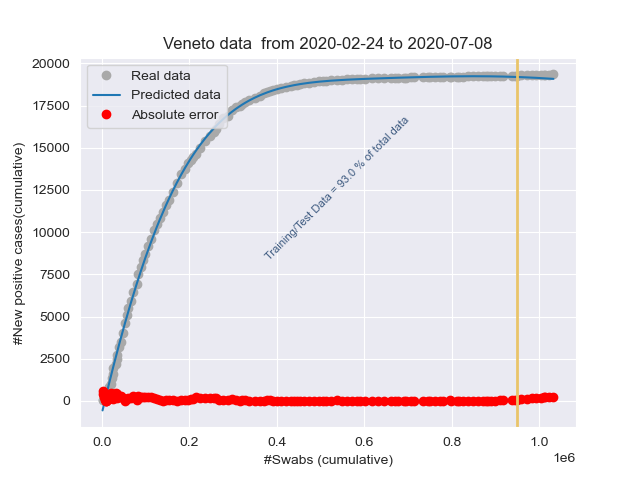
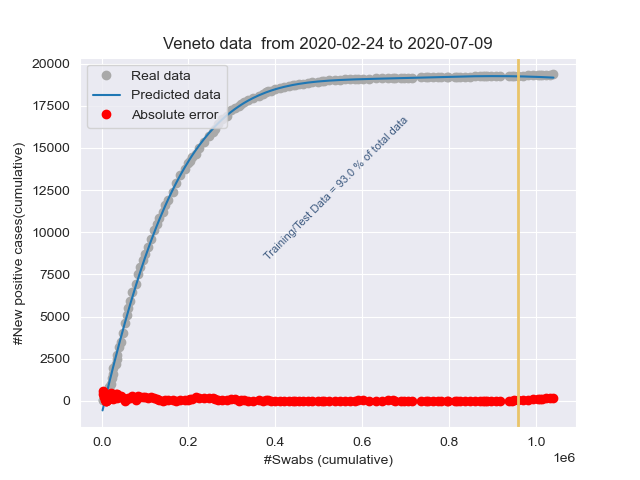
Add files via upload

diff --git a/stat_Friuli Venezia Giulia.html b/stat_Friuli Venezia Giulia.html
@@ -1,1 +1,1 @@
-<!DOCTYPE html><html lang="it"><head><title>Results</title><meta charset="utf-8"><meta name="viewport" content="width=device-width, initial-scale=1"><link rel="stylesheet" href="bootstrap.min.css"><script src="https://ajax.googleapis.com/ajax/libs/jquery/3.4.1/jquery.min.js"></script><script src="https://maxcdn.bootstrapcdn.com/bootstrap/3.4.1/js/bootstrap.min.js"></script></head><body><h3>Day: 2020-07-08</h3><p class="lead my-3">New positive cases: <b>4</b></p><p class="lead my-3">Variation of positive cases: <b>300.0%</b></p><p class="lead my-3">Number of swabs: <b>1827.0</b></p><p class="lead my-3">Variation of swabs: <b>0.9%</b></p><p class="lead my-3">Postive cases/Swabs: <b>0.22 %</b></p><p class="lead my-3">Number of people admitted to Intensive care: <b>0</b></p><p class="lead my-3">Number of recovered people: <b>-6.0</b></p><p class="lead my-3">Number of dead people: <b>0.0</b></p><h3>Total</h3><p class="lead my-3">Population of  Friuli Venezia Giulia: <b>1215220</b> <a href="http://dati.istat.it/Index.aspx?QueryId=18548" target="_blank">ISTAT data</a></p><p class="lead my-3">Total number of positive cases from 2020-02-24 00:00:00 to 2020-07-08: <b> 3331</b></p><p class="lead my-3">Total number of swabs from 2020-02-24 00:00:00 to 2020-07-08: <b> 204580</b></p><p class="lead my-3">TotalSwabs/Population: <b> 16.83%</b></p></body></html>
+<!DOCTYPE html><html lang="it"><head><title>Results</title><meta charset="utf-8"><meta name="viewport" content="width=device-width, initial-scale=1"><link rel="stylesheet" href="bootstrap.min.css"><script src="https://ajax.googleapis.com/ajax/libs/jquery/3.4.1/jquery.min.js"></script><script src="https://maxcdn.bootstrapcdn.com/bootstrap/3.4.1/js/bootstrap.min.js"></script></head><body><h3>Day: 2020-07-09</h3><p class="lead my-3">New positive cases: <b>1</b></p><p class="lead my-3">Variation of positive cases: <b>-75.0%</b></p><p class="lead my-3">Number of swabs: <b>2228.0</b></p><p class="lead my-3">Variation of swabs: <b>1.09%</b></p><p class="lead my-3">Postive cases/Swabs: <b>0.04 %</b></p><p class="lead my-3">Number of people admitted to Intensive care: <b>0</b></p><p class="lead my-3">Number of recovered people: <b>8.0</b></p><p class="lead my-3">Number of dead people: <b>0.0</b></p><h3>Total</h3><p class="lead my-3">Population of  Friuli Venezia Giulia: <b>1215220</b> <a href="http://dati.istat.it/Index.aspx?QueryId=18548" target="_blank">ISTAT data</a></p><p class="lead my-3">Total number of positive cases from 2020-02-24 00:00:00 to 2020-07-09: <b> 3332</b></p><p class="lead my-3">Total number of swabs from 2020-02-24 00:00:00 to 2020-07-09: <b> 206808</b></p><p class="lead my-3">TotalSwabs/Population: <b> 17.02%</b></p></body></html>

diff --git a/stat_Emilia-Romagna.html b/stat_Emilia-Romagna.html
@@ -1,1 +1,1 @@
-<!DOCTYPE html><html lang="it"><head><title>Results</title><meta charset="utf-8"><meta name="viewport" content="width=device-width, initial-scale=1"><link rel="stylesheet" href="bootstrap.min.css"><script src="https://ajax.googleapis.com/ajax/libs/jquery/3.4.1/jquery.min.js"></script><script src="https://maxcdn.bootstrapcdn.com/bootstrap/3.4.1/js/bootstrap.min.js"></script></head><body><h3>Day: 2020-07-08</h3><p class="lead my-3">New positive cases: <b>49</b></p><p class="lead my-3">Variation of positive cases: <b>58.06%</b></p><p class="lead my-3">Number of swabs: <b>4877.0</b></p><p class="lead my-3">Variation of swabs: <b>0.93%</b></p><p class="lead my-3">Postive cases/Swabs: <b>1.0 %</b></p><p class="lead my-3">Number of people admitted to Intensive care: <b>10</b></p><p class="lead my-3">Number of recovered people: <b>38.0</b></p><p class="lead my-3">Number of dead people: <b>0.0</b></p><h3>Total</h3><p class="lead my-3">Population of  Emilia-Romagna: <b>4459477</b> <a href="http://dati.istat.it/Index.aspx?QueryId=18548" target="_blank">ISTAT data</a></p><p class="lead my-3">Total number of positive cases from 2020-02-24 00:00:00 to 2020-07-08: <b> 28759</b></p><p class="lead my-3">Total number of swabs from 2020-02-24 00:00:00 to 2020-07-08: <b> 531089</b></p><p class="lead my-3">TotalSwabs/Population: <b> 11.91%</b></p></body></html>
+<!DOCTYPE html><html lang="it"><head><title>Results</title><meta charset="utf-8"><meta name="viewport" content="width=device-width, initial-scale=1"><link rel="stylesheet" href="bootstrap.min.css"><script src="https://ajax.googleapis.com/ajax/libs/jquery/3.4.1/jquery.min.js"></script><script src="https://maxcdn.bootstrapcdn.com/bootstrap/3.4.1/js/bootstrap.min.js"></script></head><body><h3>Day: 2020-07-09</h3><p class="lead my-3">New positive cases: <b>29</b></p><p class="lead my-3">Variation of positive cases: <b>-40.82%</b></p><p class="lead my-3">Number of swabs: <b>5343.0</b></p><p class="lead my-3">Variation of swabs: <b>1.01%</b></p><p class="lead my-3">Postive cases/Swabs: <b>0.54 %</b></p><p class="lead my-3">Number of people admitted to Intensive care: <b>10</b></p><p class="lead my-3">Number of recovered people: <b>19.0</b></p><p class="lead my-3">Number of dead people: <b>0.0</b></p><h3>Total</h3><p class="lead my-3">Population of  Emilia-Romagna: <b>4459477</b> <a href="http://dati.istat.it/Index.aspx?QueryId=18548" target="_blank">ISTAT data</a></p><p class="lead my-3">Total number of positive cases from 2020-02-24 00:00:00 to 2020-07-09: <b> 28788</b></p><p class="lead my-3">Total number of swabs from 2020-02-24 00:00:00 to 2020-07-09: <b> 536432</b></p><p class="lead my-3">TotalSwabs/Population: <b> 12.03%</b></p></body></html>

diff --git a/stat_Lombardia.html b/stat_Lombardia.html
@@ -1,1 +1,1 @@
-<!DOCTYPE html><html lang="it"><head><title>Results</title><meta charset="utf-8"><meta name="viewport" content="width=device-width, initial-scale=1"><link rel="stylesheet" href="bootstrap.min.css"><script src="https://ajax.googleapis.com/ajax/libs/jquery/3.4.1/jquery.min.js"></script><script src="https://maxcdn.bootstrapcdn.com/bootstrap/3.4.1/js/bootstrap.min.js"></script></head><body><h3>Day: 2020-07-08</h3><p class="lead my-3">New positive cases: <b>71</b></p><p class="lead my-3">Variation of positive cases: <b>33.96%</b></p><p class="lead my-3">Number of swabs: <b>10675.0</b></p><p class="lead my-3">Variation of swabs: <b>0.98%</b></p><p class="lead my-3">Postive cases/Swabs: <b>0.67 %</b></p><p class="lead my-3">Number of people admitted to Intensive care: <b>34</b></p><p class="lead my-3">Number of recovered people: <b>673.0</b></p><p class="lead my-3">Number of dead people: <b>12.0</b></p><h3>Total</h3><p class="lead my-3">Population of  Lombardia: <b>10060574</b> <a href="http://dati.istat.it/Index.aspx?QueryId=18548" target="_blank">ISTAT data</a></p><p class="lead my-3">Total number of positive cases from 2020-02-24 00:00:00 to 2020-07-08: <b> 94645</b></p><p class="lead my-3">Total number of swabs from 2020-02-24 00:00:00 to 2020-07-08: <b> 1103015</b></p><p class="lead my-3">TotalSwabs/Population: <b> 10.96%</b></p></body></html>
+<!DOCTYPE html><html lang="it"><head><title>Results</title><meta charset="utf-8"><meta name="viewport" content="width=device-width, initial-scale=1"><link rel="stylesheet" href="bootstrap.min.css"><script src="https://ajax.googleapis.com/ajax/libs/jquery/3.4.1/jquery.min.js"></script><script src="https://maxcdn.bootstrapcdn.com/bootstrap/3.4.1/js/bootstrap.min.js"></script></head><body><h3>Day: 2020-07-09</h3><p class="lead my-3">New positive cases: <b>119</b></p><p class="lead my-3">Variation of positive cases: <b>67.61%</b></p><p class="lead my-3">Number of swabs: <b>11812.0</b></p><p class="lead my-3">Variation of swabs: <b>1.07%</b></p><p class="lead my-3">Postive cases/Swabs: <b>1.01 %</b></p><p class="lead my-3">Number of people admitted to Intensive care: <b>31</b></p><p class="lead my-3">Number of recovered people: <b>217.0</b></p><p class="lead my-3">Number of dead people: <b>5.0</b></p><h3>Total</h3><p class="lead my-3">Population of  Lombardia: <b>10060574</b> <a href="http://dati.istat.it/Index.aspx?QueryId=18548" target="_blank">ISTAT data</a></p><p class="lead my-3">Total number of positive cases from 2020-02-24 00:00:00 to 2020-07-09: <b> 94764</b></p><p class="lead my-3">Total number of swabs from 2020-02-24 00:00:00 to 2020-07-09: <b> 1114827</b></p><p class="lead my-3">TotalSwabs/Population: <b> 11.08%</b></p></body></html>

diff --git a/stat_Italy.html b/stat_Italy.html
@@ -1,1 +1,1 @@
-<!DOCTYPE html><html lang="it"><head><title>Results</title><meta charset="utf-8"><meta name="viewport" content="width=device-width, initial-scale=1"><link rel="stylesheet" href="bootstrap.min.css"><script src="https://ajax.googleapis.com/ajax/libs/jquery/3.4.1/jquery.min.js"></script><script src="https://maxcdn.bootstrapcdn.com/bootstrap/3.4.1/js/bootstrap.min.js"></script></head><body><h3>Day: 2020-07-08</h3><p class="lead my-3">New positive cases: <b>193</b></p><p class="lead my-3">Variation of positive cases: <b>39.86%</b></p><p class="lead my-3">Number of swabs: <b>50443.0</b></p><p class="lead my-3">Variation of swabs: <b>0.88%</b></p><p class="lead my-3">Postive cases/Swabs: <b>0.38 %</b></p><p class="lead my-3">Number of people admitted to Intensive care: <b>71</b></p><p class="lead my-3">Number of recovered people: <b>825.0</b></p><p class="lead my-3">Number of dead people: <b>15.0</b></p><h3>Total</h3><p class="lead my-3">Population of  Italy: <b>60359546</b> <a href="http://dati.istat.it/Index.aspx?QueryId=18548" target="_blank">ISTAT data</a></p><p class="lead my-3">Total number of positive cases from 2020-02-24 00:00:00 to 2020-07-08: <b> 242172</b></p><p class="lead my-3">Total number of swabs from 2020-02-24 00:00:00 to 2020-07-08: <b> 5754116</b></p><p class="lead my-3">TotalSwabs/Population: <b> 9.53%</b></p></body></html>
+<!DOCTYPE html><html lang="it"><head><title>Results</title><meta charset="utf-8"><meta name="viewport" content="width=device-width, initial-scale=1"><link rel="stylesheet" href="bootstrap.min.css"><script src="https://ajax.googleapis.com/ajax/libs/jquery/3.4.1/jquery.min.js"></script><script src="https://maxcdn.bootstrapcdn.com/bootstrap/3.4.1/js/bootstrap.min.js"></script></head><body><h3>Day: 2020-07-09</h3><p class="lead my-3">New positive cases: <b>229</b></p><p class="lead my-3">Variation of positive cases: <b>18.65%</b></p><p class="lead my-3">Number of swabs: <b>52552.0</b></p><p class="lead my-3">Variation of swabs: <b>0.91%</b></p><p class="lead my-3">Postive cases/Swabs: <b>0.44 %</b></p><p class="lead my-3">Number of people admitted to Intensive care: <b>69</b></p><p class="lead my-3">Number of recovered people: <b>338.0</b></p><p class="lead my-3">Number of dead people: <b>12.0</b></p><h3>Total</h3><p class="lead my-3">Population of  Italy: <b>60359546</b> <a href="http://dati.istat.it/Index.aspx?QueryId=18548" target="_blank">ISTAT data</a></p><p class="lead my-3">Total number of positive cases from 2020-02-24 00:00:00 to 2020-07-09: <b> 242401</b></p><p class="lead my-3">Total number of swabs from 2020-02-24 00:00:00 to 2020-07-09: <b> 5806668</b></p><p class="lead my-3">TotalSwabs/Population: <b> 9.62%</b></p></body></html>

diff --git a/stat_Piemonte.html b/stat_Piemonte.html
@@ -1,1 +1,1 @@
-<!DOCTYPE html><html lang="it"><head><title>Results</title><meta charset="utf-8"><meta name="viewport" content="width=device-width, initial-scale=1"><link rel="stylesheet" href="bootstrap.min.css"><script src="https://ajax.googleapis.com/ajax/libs/jquery/3.4.1/jquery.min.js"></script><script src="https://maxcdn.bootstrapcdn.com/bootstrap/3.4.1/js/bootstrap.min.js"></script></head><body><h3>Day: 2020-07-08</h3><p class="lead my-3">New positive cases: <b>25</b></p><p class="lead my-3">Variation of positive cases: <b>400.0%</b></p><p class="lead my-3">Number of swabs: <b>3415.0</b></p><p class="lead my-3">Variation of swabs: <b>0.79%</b></p><p class="lead my-3">Postive cases/Swabs: <b>0.73 %</b></p><p class="lead my-3">Number of people admitted to Intensive care: <b>8</b></p><p class="lead my-3">Number of recovered people: <b>58.0</b></p><p class="lead my-3">Number of dead people: <b>0.0</b></p><h3>Total</h3><p class="lead my-3">Population of  Piemonte: <b>4356406</b> <a href="http://dati.istat.it/Index.aspx?QueryId=18548" target="_blank">ISTAT data</a></p><p class="lead my-3">Total number of positive cases from 2020-02-24 00:00:00 to 2020-07-08: <b> 31459</b></p><p class="lead my-3">Total number of swabs from 2020-02-24 00:00:00 to 2020-07-08: <b> 438250</b></p><p class="lead my-3">TotalSwabs/Population: <b> 10.06%</b></p></body></html>
+<!DOCTYPE html><html lang="it"><head><title>Results</title><meta charset="utf-8"><meta name="viewport" content="width=device-width, initial-scale=1"><link rel="stylesheet" href="bootstrap.min.css"><script src="https://ajax.googleapis.com/ajax/libs/jquery/3.4.1/jquery.min.js"></script><script src="https://maxcdn.bootstrapcdn.com/bootstrap/3.4.1/js/bootstrap.min.js"></script></head><body><h3>Day: 2020-07-09</h3><p class="lead my-3">New positive cases: <b>16</b></p><p class="lead my-3">Variation of positive cases: <b>-36.0%</b></p><p class="lead my-3">Number of swabs: <b>3427.0</b></p><p class="lead my-3">Variation of swabs: <b>0.78%</b></p><p class="lead my-3">Postive cases/Swabs: <b>0.47 %</b></p><p class="lead my-3">Number of people admitted to Intensive care: <b>10</b></p><p class="lead my-3">Number of recovered people: <b>31.0</b></p><p class="lead my-3">Number of dead people: <b>1.0</b></p><h3>Total</h3><p class="lead my-3">Population of  Piemonte: <b>4356406</b> <a href="http://dati.istat.it/Index.aspx?QueryId=18548" target="_blank">ISTAT data</a></p><p class="lead my-3">Total number of positive cases from 2020-02-24 00:00:00 to 2020-07-09: <b> 31475</b></p><p class="lead my-3">Total number of swabs from 2020-02-24 00:00:00 to 2020-07-09: <b> 441677</b></p><p class="lead my-3">TotalSwabs/Population: <b> 10.14%</b></p></body></html>

diff --git a/stat_Liguria.html b/stat_Liguria.html
@@ -1,1 +1,1 @@
-<!DOCTYPE html><html lang="it"><head><title>Results</title><meta charset="utf-8"><meta name="viewport" content="width=device-width, initial-scale=1"><link rel="stylesheet" href="bootstrap.min.css"><script src="https://ajax.googleapis.com/ajax/libs/jquery/3.4.1/jquery.min.js"></script><script src="https://maxcdn.bootstrapcdn.com/bootstrap/3.4.1/js/bootstrap.min.js"></script></head><body><h3>Day: 2020-07-08</h3><p class="lead my-3">New positive cases: <b>3</b></p><p class="lead my-3">Variation of positive cases: <b>50.0%</b></p><p class="lead my-3">Number of swabs: <b>1328.0</b></p><p class="lead my-3">Variation of swabs: <b>0.85%</b></p><p class="lead my-3">Postive cases/Swabs: <b>0.23 %</b></p><p class="lead my-3">Number of people admitted to Intensive care: <b>1</b></p><p class="lead my-3">Number of recovered people: <b>1.0</b></p><p class="lead my-3">Number of dead people: <b>0.0</b></p><h3>Total</h3><p class="lead my-3">Population of  Liguria: <b>1550640</b> <a href="http://dati.istat.it/Index.aspx?QueryId=18548" target="_blank">ISTAT data</a></p><p class="lead my-3">Total number of positive cases from 2020-02-24 00:00:00 to 2020-07-08: <b> 10006</b></p><p class="lead my-3">Total number of swabs from 2020-02-24 00:00:00 to 2020-07-08: <b> 157429</b></p><p class="lead my-3">TotalSwabs/Population: <b> 10.15%</b></p></body></html>
+<!DOCTYPE html><html lang="it"><head><title>Results</title><meta charset="utf-8"><meta name="viewport" content="width=device-width, initial-scale=1"><link rel="stylesheet" href="bootstrap.min.css"><script src="https://ajax.googleapis.com/ajax/libs/jquery/3.4.1/jquery.min.js"></script><script src="https://maxcdn.bootstrapcdn.com/bootstrap/3.4.1/js/bootstrap.min.js"></script></head><body><h3>Day: 2020-07-09</h3><p class="lead my-3">New positive cases: <b>4</b></p><p class="lead my-3">Variation of positive cases: <b>33.33%</b></p><p class="lead my-3">Number of swabs: <b>1472.0</b></p><p class="lead my-3">Variation of swabs: <b>0.94%</b></p><p class="lead my-3">Postive cases/Swabs: <b>0.27 %</b></p><p class="lead my-3">Number of people admitted to Intensive care: <b>1</b></p><p class="lead my-3">Number of recovered people: <b>13.0</b></p><p class="lead my-3">Number of dead people: <b>0.0</b></p><h3>Total</h3><p class="lead my-3">Population of  Liguria: <b>1550640</b> <a href="http://dati.istat.it/Index.aspx?QueryId=18548" target="_blank">ISTAT data</a></p><p class="lead my-3">Total number of positive cases from 2020-02-24 00:00:00 to 2020-07-09: <b> 10010</b></p><p class="lead my-3">Total number of swabs from 2020-02-24 00:00:00 to 2020-07-09: <b> 158901</b></p><p class="lead my-3">TotalSwabs/Population: <b> 10.25%</b></p></body></html>

diff --git a/stat_P.A. Bolzano.html b/stat_P.A. Bolzano.html
@@ -1,1 +1,1 @@
-<!DOCTYPE html><html lang="it"><head><title>Results</title><meta charset="utf-8"><meta name="viewport" content="width=device-width, initial-scale=1"><link rel="stylesheet" href="bootstrap.min.css"><script src="https://ajax.googleapis.com/ajax/libs/jquery/3.4.1/jquery.min.js"></script><script src="https://maxcdn.bootstrapcdn.com/bootstrap/3.4.1/js/bootstrap.min.js"></script></head><body><h3>Day: 2020-07-08</h3><p class="lead my-3">New positive cases: <b>2</b></p><p class="lead my-3">Variation of positive cases: <b>100.0%</b></p><p class="lead my-3">Number of swabs: <b>688.0</b></p><p class="lead my-3">Variation of swabs: <b>0.78%</b></p><p class="lead my-3">Postive cases/Swabs: <b>0.29 %</b></p><p class="lead my-3">Number of people admitted to Intensive care: <b>0</b></p><p class="lead my-3">Number of recovered people: <b>2.0</b></p><p class="lead my-3">Number of dead people: <b>0.0</b></p><h3>Total</h3><p class="lead my-3">Population of  P.A. Bolzano: <b>531178</b> <a href="http://dati.istat.it/Index.aspx?QueryId=18548" target="_blank">ISTAT data</a></p><p class="lead my-3">Total number of positive cases from 2020-02-24 00:00:00 to 2020-07-08: <b> 2649</b></p><p class="lead my-3">Total number of swabs from 2020-02-24 00:00:00 to 2020-07-08: <b> 88462</b></p><p class="lead my-3">TotalSwabs/Population: <b> 16.65%</b></p></body></html>
+<!DOCTYPE html><html lang="it"><head><title>Results</title><meta charset="utf-8"><meta name="viewport" content="width=device-width, initial-scale=1"><link rel="stylesheet" href="bootstrap.min.css"><script src="https://ajax.googleapis.com/ajax/libs/jquery/3.4.1/jquery.min.js"></script><script src="https://maxcdn.bootstrapcdn.com/bootstrap/3.4.1/js/bootstrap.min.js"></script></head><body><h3>Day: 2020-07-09</h3><p class="lead my-3">New positive cases: <b>3</b></p><p class="lead my-3">Variation of positive cases: <b>50.0%</b></p><p class="lead my-3">Number of swabs: <b>615.0</b></p><p class="lead my-3">Variation of swabs: <b>0.7%</b></p><p class="lead my-3">Postive cases/Swabs: <b>0.49 %</b></p><p class="lead my-3">Number of people admitted to Intensive care: <b>0</b></p><p class="lead my-3">Number of recovered people: <b>2.0</b></p><p class="lead my-3">Number of dead people: <b>0.0</b></p><h3>Total</h3><p class="lead my-3">Population of  P.A. Bolzano: <b>531178</b> <a href="http://dati.istat.it/Index.aspx?QueryId=18548" target="_blank">ISTAT data</a></p><p class="lead my-3">Total number of positive cases from 2020-02-24 00:00:00 to 2020-07-09: <b> 2652</b></p><p class="lead my-3">Total number of swabs from 2020-02-24 00:00:00 to 2020-07-09: <b> 89077</b></p><p class="lead my-3">TotalSwabs/Population: <b> 16.77%</b></p></body></html>

diff --git a/stat_P.A. Trento.html b/stat_P.A. Trento.html
@@ -1,1 +1,1 @@
-<!DOCTYPE html><html lang="it"><head><title>Results</title><meta charset="utf-8"><meta name="viewport" content="width=device-width, initial-scale=1"><link rel="stylesheet" href="bootstrap.min.css"><script src="https://ajax.googleapis.com/ajax/libs/jquery/3.4.1/jquery.min.js"></script><script src="https://maxcdn.bootstrapcdn.com/bootstrap/3.4.1/js/bootstrap.min.js"></script></head><body><h3>Day: 2020-07-08</h3><p class="lead my-3">New positive cases: <b>0</b></p><p class="lead my-3">Variation of positive cases: <b>-100.0%</b></p><p class="lead my-3">Number of swabs: <b>583.0</b></p><p class="lead my-3">Variation of swabs: <b>0.45%</b></p><p class="lead my-3">Postive cases/Swabs: <b>0.0 %</b></p><p class="lead my-3">Number of people admitted to Intensive care: <b>0</b></p><p class="lead my-3">Number of recovered people: <b>3.0</b></p><p class="lead my-3">Number of dead people: <b>0.0</b></p><h3>Total</h3><p class="lead my-3">Population of  P.A. Trento: <b>541098</b> <a href="http://dati.istat.it/Index.aspx?QueryId=18548" target="_blank">ISTAT data</a></p><p class="lead my-3">Total number of positive cases from 2020-02-24 00:00:00 to 2020-07-08: <b> 4489</b></p><p class="lead my-3">Total number of swabs from 2020-02-24 00:00:00 to 2020-07-08: <b> 129180</b></p><p class="lead my-3">TotalSwabs/Population: <b> 23.87%</b></p></body></html>
+<!DOCTYPE html><html lang="it"><head><title>Results</title><meta charset="utf-8"><meta name="viewport" content="width=device-width, initial-scale=1"><link rel="stylesheet" href="bootstrap.min.css"><script src="https://ajax.googleapis.com/ajax/libs/jquery/3.4.1/jquery.min.js"></script><script src="https://maxcdn.bootstrapcdn.com/bootstrap/3.4.1/js/bootstrap.min.js"></script></head><body><h3>Day: 2020-07-09</h3><p class="lead my-3">New positive cases: <b>0</b></p><p class="lead my-3">Variation of positive cases: <b>0.0%</b></p><p class="lead my-3">Number of swabs: <b>1574.0</b></p><p class="lead my-3">Variation of swabs: <b>1.22%</b></p><p class="lead my-3">Postive cases/Swabs: <b>0.0 %</b></p><p class="lead my-3">Number of people admitted to Intensive care: <b>0</b></p><p class="lead my-3">Number of recovered people: <b>4.0</b></p><p class="lead my-3">Number of dead people: <b>0.0</b></p><h3>Total</h3><p class="lead my-3">Population of  P.A. Trento: <b>541098</b> <a href="http://dati.istat.it/Index.aspx?QueryId=18548" target="_blank">ISTAT data</a></p><p class="lead my-3">Total number of positive cases from 2020-02-24 00:00:00 to 2020-07-09: <b> 4489</b></p><p class="lead my-3">Total number of swabs from 2020-02-24 00:00:00 to 2020-07-09: <b> 130754</b></p><p class="lead my-3">TotalSwabs/Population: <b> 24.16%</b></p></body></html>

diff --git a/stat_Toscana.html b/stat_Toscana.html
@@ -1,1 +1,1 @@
-<!DOCTYPE html><html lang="it"><head><title>Results</title><meta charset="utf-8"><meta name="viewport" content="width=device-width, initial-scale=1"><link rel="stylesheet" href="bootstrap.min.css"><script src="https://ajax.googleapis.com/ajax/libs/jquery/3.4.1/jquery.min.js"></script><script src="https://maxcdn.bootstrapcdn.com/bootstrap/3.4.1/js/bootstrap.min.js"></script></head><body><h3>Day: 2020-07-08</h3><p class="lead my-3">New positive cases: <b>7</b></p><p class="lead my-3">Variation of positive cases: <b>-63.16%</b></p><p class="lead my-3">Number of swabs: <b>3715.0</b></p><p class="lead my-3">Variation of swabs: <b>1.04%</b></p><p class="lead my-3">Postive cases/Swabs: <b>0.19 %</b></p><p class="lead my-3">Number of people admitted to Intensive care: <b>2</b></p><p class="lead my-3">Number of recovered people: <b>3.0</b></p><p class="lead my-3">Number of dead people: <b>2.0</b></p><h3>Total</h3><p class="lead my-3">Population of  Toscana: <b>3729641</b> <a href="http://dati.istat.it/Index.aspx?QueryId=18548" target="_blank">ISTAT data</a></p><p class="lead my-3">Total number of positive cases from 2020-02-24 00:00:00 to 2020-07-08: <b> 10313</b></p><p class="lead my-3">Total number of swabs from 2020-02-24 00:00:00 to 2020-07-08: <b> 360262</b></p><p class="lead my-3">TotalSwabs/Population: <b> 9.66%</b></p></body></html>
+<!DOCTYPE html><html lang="it"><head><title>Results</title><meta charset="utf-8"><meta name="viewport" content="width=device-width, initial-scale=1"><link rel="stylesheet" href="bootstrap.min.css"><script src="https://ajax.googleapis.com/ajax/libs/jquery/3.4.1/jquery.min.js"></script><script src="https://maxcdn.bootstrapcdn.com/bootstrap/3.4.1/js/bootstrap.min.js"></script></head><body><h3>Day: 2020-07-09</h3><p class="lead my-3">New positive cases: <b>1</b></p><p class="lead my-3">Variation of positive cases: <b>-85.71%</b></p><p class="lead my-3">Number of swabs: <b>3071.0</b></p><p class="lead my-3">Variation of swabs: <b>0.85%</b></p><p class="lead my-3">Postive cases/Swabs: <b>0.03 %</b></p><p class="lead my-3">Number of people admitted to Intensive care: <b>2</b></p><p class="lead my-3">Number of recovered people: <b>3.0</b></p><p class="lead my-3">Number of dead people: <b>2.0</b></p><h3>Total</h3><p class="lead my-3">Population of  Toscana: <b>3729641</b> <a href="http://dati.istat.it/Index.aspx?QueryId=18548" target="_blank">ISTAT data</a></p><p class="lead my-3">Total number of positive cases from 2020-02-24 00:00:00 to 2020-07-09: <b> 10314</b></p><p class="lead my-3">Total number of swabs from 2020-02-24 00:00:00 to 2020-07-09: <b> 363333</b></p><p class="lead my-3">TotalSwabs/Population: <b> 9.74%</b></p></body></html>

diff --git a/stat_Campania.html b/stat_Campania.html
@@ -1,1 +1,1 @@
-<!DOCTYPE html><html lang="it"><head><title>Results</title><meta charset="utf-8"><meta name="viewport" content="width=device-width, initial-scale=1"><link rel="stylesheet" href="bootstrap.min.css"><script src="https://ajax.googleapis.com/ajax/libs/jquery/3.4.1/jquery.min.js"></script><script src="https://maxcdn.bootstrapcdn.com/bootstrap/3.4.1/js/bootstrap.min.js"></script></head><body><h3>Day: 2020-07-08</h3><p class="lead my-3">New positive cases: <b>3</b></p><p class="lead my-3">Variation of positive cases: <b>200.0%</b></p><p class="lead my-3">Number of swabs: <b>1918.0</b></p><p class="lead my-3">Variation of swabs: <b>0.65%</b></p><p class="lead my-3">Postive cases/Swabs: <b>0.16 %</b></p><p class="lead my-3">Number of people admitted to Intensive care: <b>0</b></p><p class="lead my-3">Number of recovered people: <b>1.0</b></p><p class="lead my-3">Number of dead people: <b>0.0</b></p><h3>Total</h3><p class="lead my-3">Population of  Campania: <b>5801692</b> <a href="http://dati.istat.it/Index.aspx?QueryId=18548" target="_blank">ISTAT data</a></p><p class="lead my-3">Total number of positive cases from 2020-02-24 00:00:00 to 2020-07-08: <b> 4750</b></p><p class="lead my-3">Total number of swabs from 2020-02-24 00:00:00 to 2020-07-08: <b> 296630</b></p><p class="lead my-3">TotalSwabs/Population: <b> 5.11%</b></p></body></html>
+<!DOCTYPE html><html lang="it"><head><title>Results</title><meta charset="utf-8"><meta name="viewport" content="width=device-width, initial-scale=1"><link rel="stylesheet" href="bootstrap.min.css"><script src="https://ajax.googleapis.com/ajax/libs/jquery/3.4.1/jquery.min.js"></script><script src="https://maxcdn.bootstrapcdn.com/bootstrap/3.4.1/js/bootstrap.min.js"></script></head><body><h3>Day: 2020-07-09</h3><p class="lead my-3">New positive cases: <b>5</b></p><p class="lead my-3">Variation of positive cases: <b>66.67%</b></p><p class="lead my-3">Number of swabs: <b>1587.0</b></p><p class="lead my-3">Variation of swabs: <b>0.54%</b></p><p class="lead my-3">Postive cases/Swabs: <b>0.32 %</b></p><p class="lead my-3">Number of people admitted to Intensive care: <b>0</b></p><p class="lead my-3">Number of recovered people: <b>1.0</b></p><p class="lead my-3">Number of dead people: <b>0.0</b></p><h3>Total</h3><p class="lead my-3">Population of  Campania: <b>5801692</b> <a href="http://dati.istat.it/Index.aspx?QueryId=18548" target="_blank">ISTAT data</a></p><p class="lead my-3">Total number of positive cases from 2020-02-24 00:00:00 to 2020-07-09: <b> 4755</b></p><p class="lead my-3">Total number of swabs from 2020-02-24 00:00:00 to 2020-07-09: <b> 298217</b></p><p class="lead my-3">TotalSwabs/Population: <b> 5.14%</b></p></body></html>

diff --git a/stat_Veneto.html b/stat_Veneto.html
@@ -1,1 +1,1 @@
-<!DOCTYPE html><html lang="it"><head><title>Results</title><meta charset="utf-8"><meta name="viewport" content="width=device-width, initial-scale=1"><link rel="stylesheet" href="bootstrap.min.css"><script src="https://ajax.googleapis.com/ajax/libs/jquery/3.4.1/jquery.min.js"></script><script src="https://maxcdn.bootstrapcdn.com/bootstrap/3.4.1/js/bootstrap.min.js"></script></head><body><h3>Day: 2020-07-08</h3><p class="lead my-3">New positive cases: <b>7</b></p><p class="lead my-3">Variation of positive cases: <b>-50.0%</b></p><p class="lead my-3">Number of swabs: <b>9249.0</b></p><p class="lead my-3">Variation of swabs: <b>0.9%</b></p><p class="lead my-3">Postive cases/Swabs: <b>0.08 %</b></p><p class="lead my-3">Number of people admitted to Intensive care: <b>3</b></p><p class="lead my-3">Number of recovered people: <b>6.0</b></p><p class="lead my-3">Number of dead people: <b>0.0</b></p><h3>Total</h3><p class="lead my-3">Population of  Veneto: <b>4905854</b> <a href="http://dati.istat.it/Index.aspx?QueryId=18548" target="_blank">ISTAT data</a></p><p class="lead my-3">Total number of positive cases from 2020-02-24 00:00:00 to 2020-07-08: <b> 19347</b></p><p class="lead my-3">Total number of swabs from 2020-02-24 00:00:00 to 2020-07-08: <b> 1031906</b></p><p class="lead my-3">TotalSwabs/Population: <b> 21.03%</b></p></body></html>
+<!DOCTYPE html><html lang="it"><head><title>Results</title><meta charset="utf-8"><meta name="viewport" content="width=device-width, initial-scale=1"><link rel="stylesheet" href="bootstrap.min.css"><script src="https://ajax.googleapis.com/ajax/libs/jquery/3.4.1/jquery.min.js"></script><script src="https://maxcdn.bootstrapcdn.com/bootstrap/3.4.1/js/bootstrap.min.js"></script></head><body><h3>Day: 2020-07-09</h3><p class="lead my-3">New positive cases: <b>10</b></p><p class="lead my-3">Variation of positive cases: <b>42.86%</b></p><p class="lead my-3">Number of swabs: <b>8283.0</b></p><p class="lead my-3">Variation of swabs: <b>0.8%</b></p><p class="lead my-3">Postive cases/Swabs: <b>0.12 %</b></p><p class="lead my-3">Number of people admitted to Intensive care: <b>2</b></p><p class="lead my-3">Number of recovered people: <b>1.0</b></p><p class="lead my-3">Number of dead people: <b>3.0</b></p><h3>Total</h3><p class="lead my-3">Population of  Veneto: <b>4905854</b> <a href="http://dati.istat.it/Index.aspx?QueryId=18548" target="_blank">ISTAT data</a></p><p class="lead my-3">Total number of positive cases from 2020-02-24 00:00:00 to 2020-07-09: <b> 19357</b></p><p class="lead my-3">Total number of swabs from 2020-02-24 00:00:00 to 2020-07-09: <b> 1040189</b></p><p class="lead my-3">TotalSwabs/Population: <b> 21.2%</b></p></body></html>

diff --git a/stat_Lazio.html b/stat_Lazio.html
@@ -1,1 +1,1 @@
-<!DOCTYPE html><html lang="it"><head><title>Results</title><meta charset="utf-8"><meta name="viewport" content="width=device-width, initial-scale=1"><link rel="stylesheet" href="bootstrap.min.css"><script src="https://ajax.googleapis.com/ajax/libs/jquery/3.4.1/jquery.min.js"></script><script src="https://maxcdn.bootstrapcdn.com/bootstrap/3.4.1/js/bootstrap.min.js"></script></head><body><h3>Day: 2020-07-08</h3><p class="lead my-3">New positive cases: <b>14</b></p><p class="lead my-3">Variation of positive cases: <b>180.0%</b></p><p class="lead my-3">Number of swabs: <b>2002.0</b></p><p class="lead my-3">Variation of swabs: <b>0.56%</b></p><p class="lead my-3">Postive cases/Swabs: <b>0.7 %</b></p><p class="lead my-3">Number of people admitted to Intensive care: <b>13</b></p><p class="lead my-3">Number of recovered people: <b>13.0</b></p><p class="lead my-3">Number of dead people: <b>0.0</b></p><h3>Total</h3><p class="lead my-3">Population of  Lazio: <b>5879082</b> <a href="http://dati.istat.it/Index.aspx?QueryId=18548" target="_blank">ISTAT data</a></p><p class="lead my-3">Total number of positive cases from 2020-02-24 00:00:00 to 2020-07-08: <b> 8223</b></p><p class="lead my-3">Total number of swabs from 2020-02-24 00:00:00 to 2020-07-08: <b> 357307</b></p><p class="lead my-3">TotalSwabs/Population: <b> 6.08%</b></p></body></html>
+<!DOCTYPE html><html lang="it"><head><title>Results</title><meta charset="utf-8"><meta name="viewport" content="width=device-width, initial-scale=1"><link rel="stylesheet" href="bootstrap.min.css"><script src="https://ajax.googleapis.com/ajax/libs/jquery/3.4.1/jquery.min.js"></script><script src="https://maxcdn.bootstrapcdn.com/bootstrap/3.4.1/js/bootstrap.min.js"></script></head><body><h3>Day: 2020-07-09</h3><p class="lead my-3">New positive cases: <b>28</b></p><p class="lead my-3">Variation of positive cases: <b>100.0%</b></p><p class="lead my-3">Number of swabs: <b>2535.0</b></p><p class="lead my-3">Variation of swabs: <b>0.71%</b></p><p class="lead my-3">Postive cases/Swabs: <b>1.1 %</b></p><p class="lead my-3">Number of people admitted to Intensive care: <b>13</b></p><p class="lead my-3">Number of recovered people: <b>12.0</b></p><p class="lead my-3">Number of dead people: <b>1.0</b></p><h3>Total</h3><p class="lead my-3">Population of  Lazio: <b>5879082</b> <a href="http://dati.istat.it/Index.aspx?QueryId=18548" target="_blank">ISTAT data</a></p><p class="lead my-3">Total number of positive cases from 2020-02-24 00:00:00 to 2020-07-09: <b> 8251</b></p><p class="lead my-3">Total number of swabs from 2020-02-24 00:00:00 to 2020-07-09: <b> 359842</b></p><p class="lead my-3">TotalSwabs/Population: <b> 6.12%</b></p></body></html>
